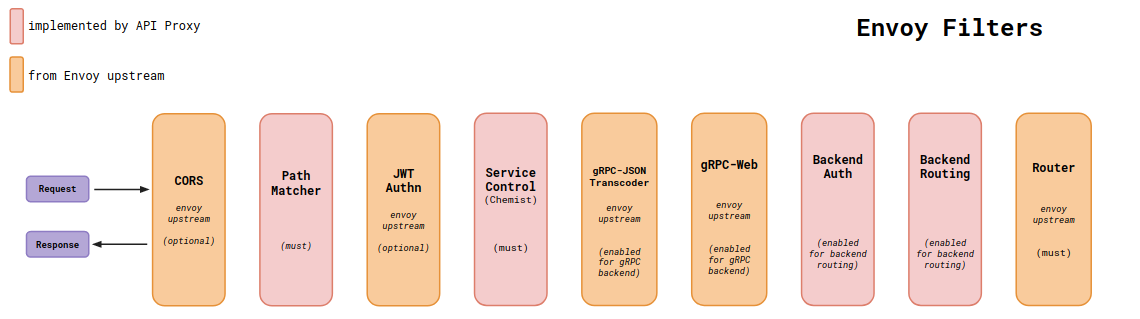
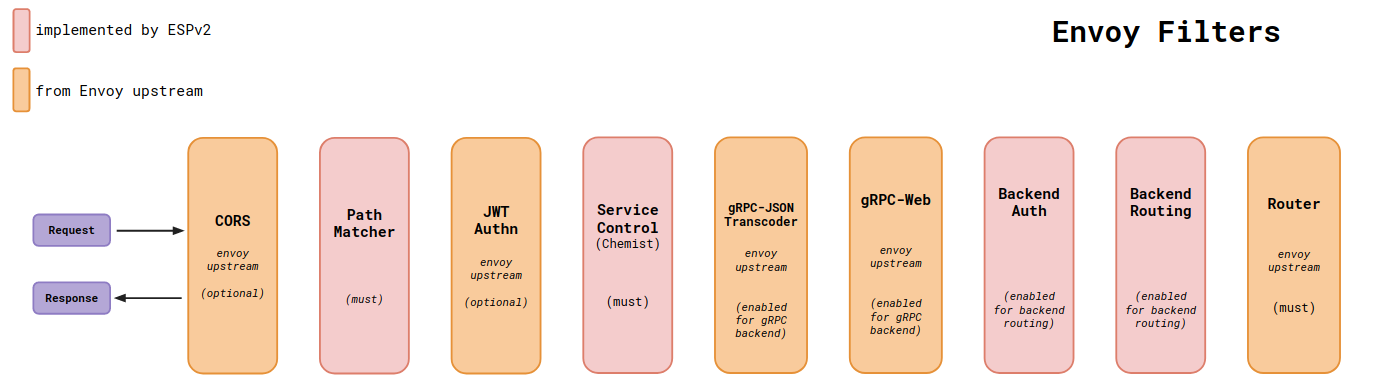
update README file

diff --git a/doc/esp-v2-on-k8s.md b/doc/esp-v2-on-k8s.md
@@ -92,16 +92,16 @@ If you get an error message, see Troubleshooting Endpoints configuration deploym
 
 ## Deploying the API backend on GKE
 
-So far you have deployed the service configuration to Service Management, but you have not yet deployed the code that serves the API backend. This section walks you through deploying prebuilt containers for the sample API and APIProxy to Kubernetes.
+So far you have deployed the service configuration to Service Management, but you have not yet deployed the code that serves the API backend. This section walks you through deploying prebuilt containers for the sample API and ESPv2 to Kubernetes.
 
 * Create a GKE cluster and connect to it
 
 Check and modify the Kubernetes configuration: bookstore-k8s.yaml
-Check the apiproxy image name and args.
+Check the ESPv2 image name and args.
 
 * Update the args, change the service name to YOUR_PROJECT_ID.
 
-The --rollout_strategy=managed option configures APIProxy to use the latest deployed service configuration. When you specify this option, within a minute after you deploy a new service configuration, APIProxy detects the change and automatically begins using it. We recommend that you specify this option instead of a specific configuration ID for APIProxy to use.
+The --rollout_strategy=managed option configures ESPv2 to use the latest deployed service configuration. When you specify this option, within a minute after you deploy a new service configuration, ESPv2 detects the change and automatically begins using it. We recommend that you specify this option instead of a specific configuration ID for ESPv2 to use.
 
 * Deploy service on kubernetes
 
@@ -179,7 +179,7 @@ curl --header "x-api-key: $API_KEY " http://$HOST/v1/shelves?access_token=$JWT_T
 
 ## Monitoring the API
 
-APIProxy is integrated with multi Google Services for API management and monitoring, including Service Management, Stackdriver Logging, and Stackdriver trace.  So, you can monitor your API on Pantheon UI by: Service Stats, including QPS, ErrorRate, Latency,  Request/Response Size etc.
+ESPv2 is integrated with multi Google Services for API management and monitoring, including Service Management, Stackdriver Logging, and Stackdriver trace.  So, you can monitor your API on Pantheon UI by: Service Stats, including QPS, ErrorRate, Latency,  Request/Response Size etc.
 
 ## Cleaning up
 

diff --git a/src/go/README.md b/src/go/README.md
@@ -1,13 +1,13 @@
-# Config Manager: the Control Plane for ESP V2
+# Config Manager: the Control Plane for ESPv2
 
-The best way to configure Envoy inside ESP V2 is through Dynamic
+The best way to configure Envoy inside ESPv2 is through Dynamic
 configuration.
 
-This Config Manager is acting as the control plane for ESP V2, it utilizes
+This Config Manager is acting as the control plane for ESPv2, it utilizes
 the [go-control-plane](https://github.com/envoyproxy/go-control-plane), with
 extra features specifically for APIs on Google Cloud Platform.
 
-*   **ESP V2 Startup Configuration**: When starting Config Manager, it
+*   **ESPv2 Startup Configuration**: When starting Config Manager, it
     fetches the latest
     [googleapis API service config](https://github.com/googleapis/api-common-protos/blob/master/google/api/service.proto)
     from
@@ -25,7 +25,7 @@ extra features specifically for APIs on Google Cloud Platform.
     seconds, to see whether there is new rollout or not. If yes, it will
     fetches the new deployed service config and updates envoy configurations,
     automatically and silently.
-    (Note: currently ESP V2 doesn't support
+    (Note: currently ESPv2 doesn't support
     [Traffic Percentage Strategy](https://github.com/googleapis/googleapis/blob/master/google/api/servicemanagement/v1/resources.proto#L227))
 
 ## Prerequisites:

diff --git a/README.md b/README.md
@@ -75,12 +75,12 @@ Your contributions are welcome. Please follow the contributor [guidelines](CONTR
 
 To find out more about building, running, and testing ESPv2:
 
-* [Run ESPv2 on Google Cloud Run](/doc/apiproxy-on-cloudrun.md)
+* [Run ESPv2 on Google Cloud Run](/doc/esp-v2-on-cloudrun.md)
 
-* [Run ESPv2 on Google GKE](/doc/apiproxy-on-k8s.md)
+* [Run ESPv2 on Google GKE](/doc/esp-v2-on-k8s.md)
 
 ## Disclaimer
 
-ESPv2 is still in Alpha. This is not an officially supported Google product.
+ESPv2 is in Beta currently.
 
 Please make sure to join [google-cloud-endpoints](https://groups.google.com/forum/#!forum/google-cloud-endpoints) Google group, to get emails about all announcements on ESPv2.
